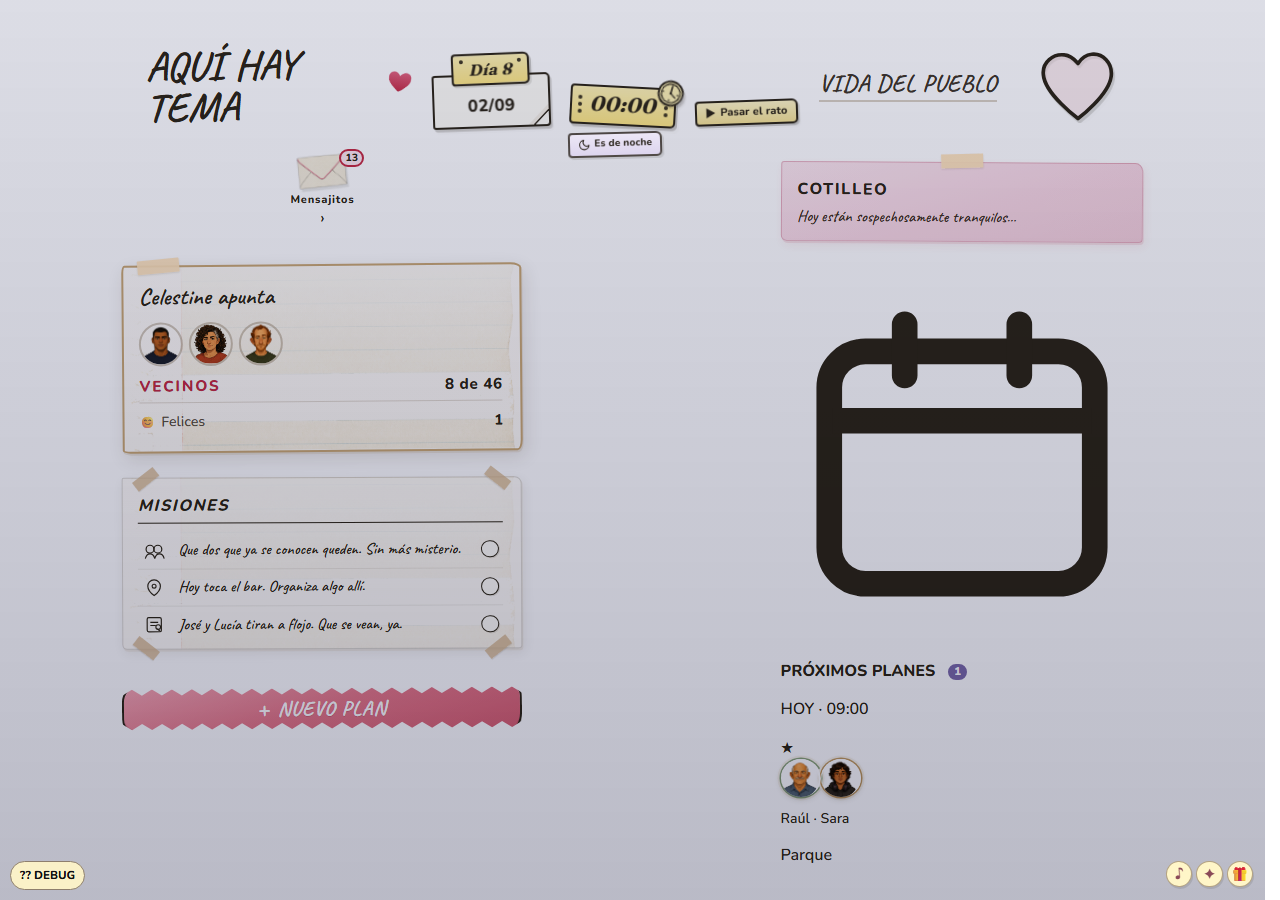
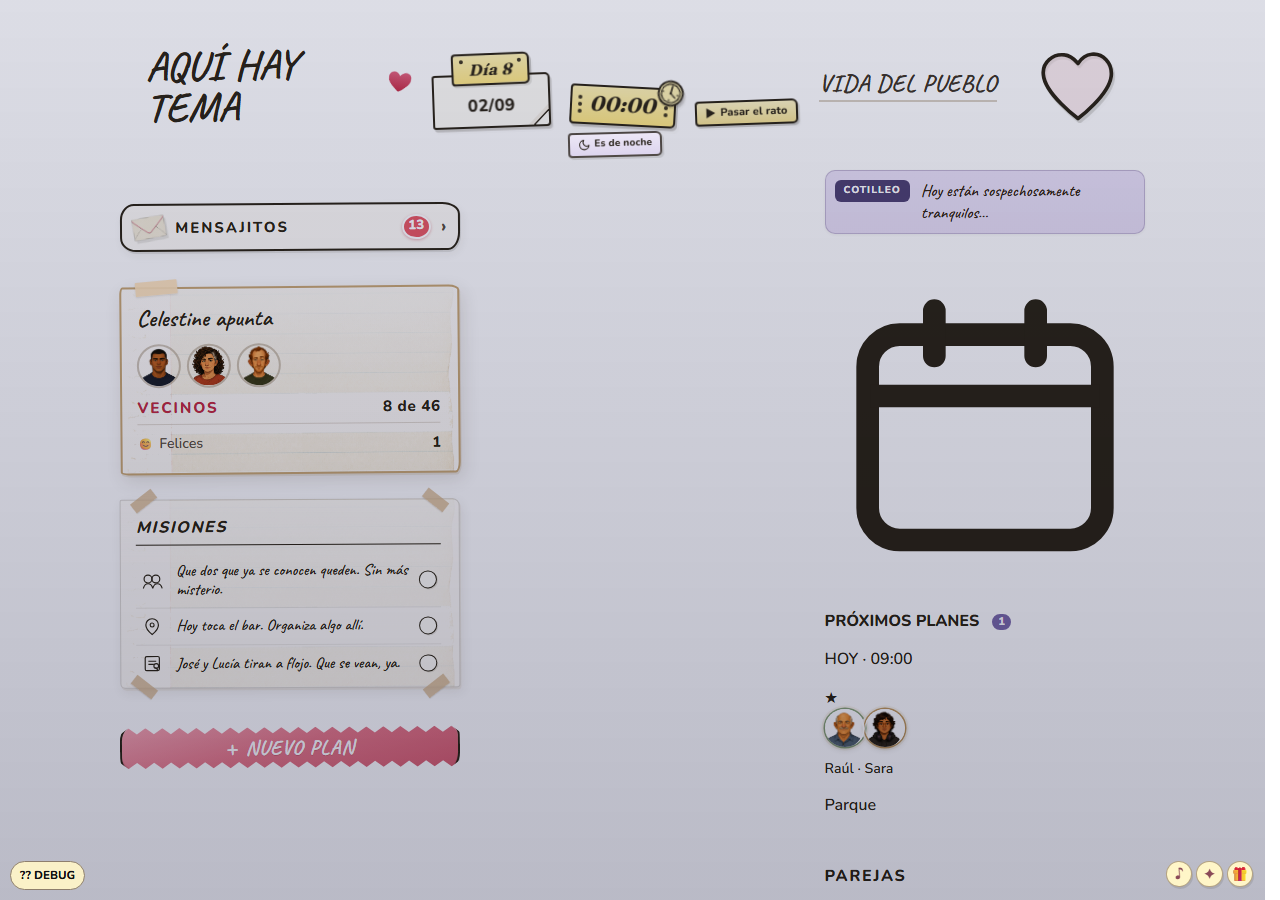
fix(inicio-desktop): restaurar CSS roto y override visual fa92ff6
Elimina llave suelta que invalidaba el bloque PORTED-DESKTOP-SHELL;
añade INICIO-DESKTOP-OVERRIDE-v1 (cotilleo lavanda, cabecera, tiles,
grid mapa) y carga inicio-desktop.css al final para ganar a shell-art.

diff --git a/dev/_append_inicio_desktop_override_v1.js b/dev/_append_inicio_desktop_override_v1.js
@@ -1,0 +1,136 @@
+'use strict';
+const fs = require('fs');
+const path = require('path');
+
+const cssPath = path.join(__dirname, '..', 'assets/css/design-system/screens/inicio-desktop.css');
+let css = fs.readFileSync(cssPath, 'utf8');
+
+const marker = '/* INICIO-DESKTOP-OVERRIDE-v1';
+if (css.includes(marker)) {
+  css = css.replace(/\n\/\* INICIO-DESKTOP-OVERRIDE-v1[\s\S]*$/, '');
+}
+
+const block = `
+/* INICIO-DESKTOP-OVERRIDE-v1 — gana a shell-art/legibilidad; ref fa92ff6 + PORTED block */
+@media (min-width: 769px) {
+  .play-v3 .inicio-desktop > .game-top {
+    background: transparent !important;
+    box-shadow: none !important;
+  }
+
+  .play-v3 .inicio-desktop > .game-top .btn-guia:not([hidden]) {
+    background: transparent !important;
+    border: none !important;
+    box-shadow: none !important;
+    font-family: var(--ds-font-hand, "Caveat Brush", cursive) !important;
+    font-size: 1.05rem !important;
+    font-weight: 700 !important;
+    color: var(--ds-pink-deep, #c85b78) !important;
+    text-decoration: underline !important;
+    text-underline-offset: 3px !important;
+  }
+
+  .play-v3 .inicio-desktop-left .obj-buzon {
+    display: flex !important;
+    flex-direction: row !important;
+    align-items: center !important;
+    width: 100% !important;
+    border: 2px solid #2c261f !important;
+    background: #fffdf8 !important;
+  }
+
+  .play-v3 .inicio-desktop-left .obj-nuevo-plan.obj-proximo-cta.obj-nuevo-plan-horiz {
+    display: flex !important;
+    flex-direction: row !important;
+    width: 100% !important;
+    min-height: 46px !important;
+    margin-top: .15rem !important;
+    padding: .62rem 1rem .65rem !important;
+    border: 2.5px solid #2c261f !important;
+    border-radius: 16px 20px 14px 18px / 18px 14px 20px 16px !important;
+    background: linear-gradient(165deg, #f8a8b8 0%, #e87a90 48%, #d95f78 100%) !important;
+    box-shadow: inset 0 1px 0 rgba(255, 255, 255, .35), inset 0 -2px 0 rgba(160, 50, 70, .2), 2px 4px 0 rgba(44, 38, 31, .14) !important;
+    transform: rotate(-0.5deg) !important;
+  }
+
+  .play-v3 .inicio-desktop-right .obj-cotilleo.obj-cotilleo-par {
+    display: grid !important;
+    grid-template-columns: auto minmax(0, 1fr) auto !important;
+    grid-template-rows: auto auto !important;
+    grid-template-areas:
+      "tit txt flecha"
+      "badge txt flecha" !important;
+    align-items: start !important;
+    gap: 5px 11px !important;
+    min-height: 62px !important;
+    padding: 9px 11px 9px 9px !important;
+    border: 1px solid rgba(122, 106, 154, .35) !important;
+    border-radius: 10px !important;
+    background: linear-gradient(180deg, #ebe3f8 0%, #e8dff5 100%) !important;
+    box-shadow: 0 1px 3px rgba(44, 38, 31, .06) !important;
+    transform: none !important;
+    clip-path: none !important;
+    width: 100% !important;
+    max-width: 100% !important;
+    box-sizing: border-box !important;
+  }
+
+  .play-v3 .inicio-desktop-right .obj-cotilleo.obj-cotilleo-par::before,
+  .play-v3 .inicio-desktop-right .obj-cotilleo.obj-cotilleo-par::after {
+    content: none !important;
+    display: none !important;
+  }
+
+  .play-v3 .inicio-desktop-right .obj-cotilleo-cuerpo {
+    display: contents !important;
+  }
+
+  .play-v3 .inicio-desktop-right .obj-cotilleo-tit {
+    grid-area: tit !important;
+    flex: none !important;
+    margin: 0 !important;
+    padding: 6px 9px !important;
+    border-radius: 6px !important;
+    background: #4f4378 !important;
+    font-family: Nunito, "Segoe UI", sans-serif !important;
+    font-size: .62rem !important;
+    font-weight: 800 !important;
+    letter-spacing: .11em !important;
+    text-transform: uppercase !important;
+    color: #fff !important;
+    line-height: 1 !important;
+    transform: none !important;
+  }
+
+  .play-v3 .inicio-desktop-right .obj-cotilleo-txt {
+    grid-area: txt !important;
+    align-self: center !important;
+    font-family: var(--ds-font-hand, Caveat, cursive) !important;
+    font-size: 1.05rem !important;
+    line-height: 1.3 !important;
+    color: var(--ds-ink, #3b3028) !important;
+  }
+
+  .play-v3 .inicio-desktop-right .obj-cotilleo-badge {
+    grid-area: badge !important;
+    position: static !important;
+    margin: 0 !important;
+    transform: rotate(3deg) !important;
+  }
+
+  .play-v3 .inicio-desktop-right .obj-cotilleo-flecha {
+    grid-area: flecha !important;
+    align-self: center !important;
+    color: var(--ds-lavender-deep, #7c6bae) !important;
+    font-size: 1.35rem !important;
+  }
+
+  .inicio-stage {
+    grid-template-columns: minmax(300px, 360px) minmax(320px, 1fr) minmax(260px, 340px) !important;
+  }
+}
+`;
+
+css = css.trimEnd() + block;
+fs.writeFileSync(cssPath, css);
+console.log('OK appended INICIO-DESKTOP-OVERRIDE-v1 to', cssPath);

diff --git a/assets/css/design-system/screens/inicio-desktop.css b/assets/css/design-system/screens/inicio-desktop.css
@@ -64,10 +64,6 @@
   }
 }
 
-
-}
-
-
 /* PORTED-DESKTOP-SHELL */
 @media (min-width: 769px) {
 
@@ -670,4 +666,121 @@
     overflow: visible !important;
   }
 }
+/* INICIO-DESKTOP-OVERRIDE-v1 — gana a shell-art/legibilidad; ref fa92ff6 + PORTED block */
+@media (min-width: 769px) {
+  .play-v3 .inicio-desktop > .game-top {
+    background: transparent !important;
+    box-shadow: none !important;
+  }
 
+  .play-v3 .inicio-desktop > .game-top .btn-guia:not([hidden]) {
+    background: transparent !important;
+    border: none !important;
+    box-shadow: none !important;
+    font-family: var(--ds-font-hand, "Caveat Brush", cursive) !important;
+    font-size: 1.05rem !important;
+    font-weight: 700 !important;
+    color: var(--ds-pink-deep, #c85b78) !important;
+    text-decoration: underline !important;
+    text-underline-offset: 3px !important;
+  }
+
+  .play-v3 .inicio-desktop-left .obj-buzon {
+    display: flex !important;
+    flex-direction: row !important;
+    align-items: center !important;
+    width: 100% !important;
+    border: 2px solid #2c261f !important;
+    background: #fffdf8 !important;
+  }
+
+  .play-v3 .inicio-desktop-left .obj-nuevo-plan.obj-proximo-cta.obj-nuevo-plan-horiz {
+    display: flex !important;
+    flex-direction: row !important;
+    width: 100% !important;
+    min-height: 46px !important;
+    margin-top: .15rem !important;
+    padding: .62rem 1rem .65rem !important;
+    border: 2.5px solid #2c261f !important;
+    border-radius: 16px 20px 14px 18px / 18px 14px 20px 16px !important;
+    background: linear-gradient(165deg, #f8a8b8 0%, #e87a90 48%, #d95f78 100%) !important;
+    box-shadow: inset 0 1px 0 rgba(255, 255, 255, .35), inset 0 -2px 0 rgba(160, 50, 70, .2), 2px 4px 0 rgba(44, 38, 31, .14) !important;
+    transform: rotate(-0.5deg) !important;
+  }
+
+  .play-v3 .inicio-desktop-right .obj-cotilleo.obj-cotilleo-par {
+    display: grid !important;
+    grid-template-columns: auto minmax(0, 1fr) auto !important;
+    grid-template-rows: auto auto !important;
+    grid-template-areas:
+      "tit txt flecha"
+      "badge txt flecha" !important;
+    align-items: start !important;
+    gap: 5px 11px !important;
+    min-height: 62px !important;
+    padding: 9px 11px 9px 9px !important;
+    border: 1px solid rgba(122, 106, 154, .35) !important;
+    border-radius: 10px !important;
+    background: linear-gradient(180deg, #ebe3f8 0%, #e8dff5 100%) !important;
+    box-shadow: 0 1px 3px rgba(44, 38, 31, .06) !important;
+    transform: none !important;
+    clip-path: none !important;
+    width: 100% !important;
+    max-width: 100% !important;
+    box-sizing: border-box !important;
+  }
+
+  .play-v3 .inicio-desktop-right .obj-cotilleo.obj-cotilleo-par::before,
+  .play-v3 .inicio-desktop-right .obj-cotilleo.obj-cotilleo-par::after {
+    content: none !important;
+    display: none !important;
+  }
+
+  .play-v3 .inicio-desktop-right .obj-cotilleo-cuerpo {
+    display: contents !important;
+  }
+
+  .play-v3 .inicio-desktop-right .obj-cotilleo-tit {
+    grid-area: tit !important;
+    flex: none !important;
+    margin: 0 !important;
+    padding: 6px 9px !important;
+    border-radius: 6px !important;
+    background: #4f4378 !important;
+    font-family: Nunito, "Segoe UI", sans-serif !important;
+    font-size: .62rem !important;
+    font-weight: 800 !important;
+    letter-spacing: .11em !important;
+    text-transform: uppercase !important;
+    color: #fff !important;
+    line-height: 1 !important;
+    transform: none !important;
+  }
+
+  .play-v3 .inicio-desktop-right .obj-cotilleo-txt {
+    grid-area: txt !important;
+    align-self: center !important;
+    font-family: var(--ds-font-hand, Caveat, cursive) !important;
+    font-size: 1.05rem !important;
+    line-height: 1.3 !important;
+    color: var(--ds-ink, #3b3028) !important;
+  }
+
+  .play-v3 .inicio-desktop-right .obj-cotilleo-badge {
+    grid-area: badge !important;
+    position: static !important;
+    margin: 0 !important;
+    transform: rotate(3deg) !important;
+  }
+
+  .play-v3 .inicio-desktop-right .obj-cotilleo-flecha {
+    grid-area: flecha !important;
+    align-self: center !important;
+    color: var(--ds-lavender-deep, #7c6bae) !important;
+    font-size: 1.35rem !important;
+  }
+
+  .inicio-stage {
+    grid-template-columns: minmax(300px, 360px) minmax(320px, 1fr) minmax(260px, 340px) !important;
+  }
+}

diff --git a/dev/_fix_inicio_desktop_css_parse.js b/dev/_fix_inicio_desktop_css_parse.js
@@ -1,0 +1,24 @@
+'use strict';
+const fs = require('fs');
+const path = require('path');
+
+const p = path.join(__dirname, '..', 'assets/css/design-system/screens/inicio-desktop.css');
+let css = fs.readFileSync(p, 'utf8');
+
+css = css.replace(
+  /(\.inicio-stage > \.inicio-map-host \{[\s\S]*?grid-row: 2;\s*\}\s*)\}\s*\n\s*\}\s*\n\s*\/\* PORTED-DESKTOP-SHELL \*\//,
+  '$1}\n\n/* PORTED-DESKTOP-SHELL */'
+);
+
+let depth = 0;
+for (const ch of css) {
+  if (ch === '{') depth++;
+  if (ch === '}') depth--;
+}
+if (depth !== 0) {
+  console.error('brace imbalance:', depth);
+  process.exit(1);
+}
+
+fs.writeFileSync(p, css);
+console.log('OK fixed inicio-desktop.css parse (depth=0)');

diff --git a/play.php b/play.php
@@ -53,12 +53,12 @@ if (is_file($ahtBusterFile)) {
   <link rel="stylesheet" href="assets/css/play-v3-tutorial-ds.css?v=<?= htmlspecialchars($ahtUi, ENT_QUOTES, 'UTF-8') ?>"/>
   <link rel="stylesheet" href="assets/css/play-v3-avisos.css?v=<?= htmlspecialchars($ahtUi, ENT_QUOTES, 'UTF-8') ?>"/>
   <link rel="stylesheet" href="assets/css/play-v3-desktop-shell.css?v=<?= htmlspecialchars($ahtUi, ENT_QUOTES, 'UTF-8') ?>"/>
-  <link rel="stylesheet" href="assets/css/design-system/screens/inicio-desktop.css?v=<?= htmlspecialchars($ahtUi, ENT_QUOTES, 'UTF-8') ?>"/>
   <link rel="stylesheet" href="assets/css/play-v3-inicio-override.css?v=<?= htmlspecialchars($ahtUi, ENT_QUOTES, 'UTF-8') ?>"/>
   <link rel="stylesheet" href="assets/css/play-v3-visual-review.css?v=<?= htmlspecialchars($ahtUi, ENT_QUOTES, 'UTF-8') ?>"/>
   <link rel="stylesheet" href="assets/css/play-v3-visual-interior.css?v=<?= htmlspecialchars($ahtUi, ENT_QUOTES, 'UTF-8') ?>"/>
   <link rel="stylesheet" href="assets/css/play-v3-visual-replica.css?v=<?= htmlspecialchars($ahtUi, ENT_QUOTES, 'UTF-8') ?>"/>
   <link rel="stylesheet" href="assets/css/design-system/legibilidad-global.css?v=<?= htmlspecialchars($ahtUi, ENT_QUOTES, 'UTF-8') ?>"/>
+  <link rel="stylesheet" href="assets/css/design-system/screens/inicio-desktop.css?v=<?= htmlspecialchars($ahtUi, ENT_QUOTES, 'UTF-8') ?>"/>
   <style>
     .tutorial-pista {
       margin: 0; padding: .45rem .85rem; font-size: .88rem;
